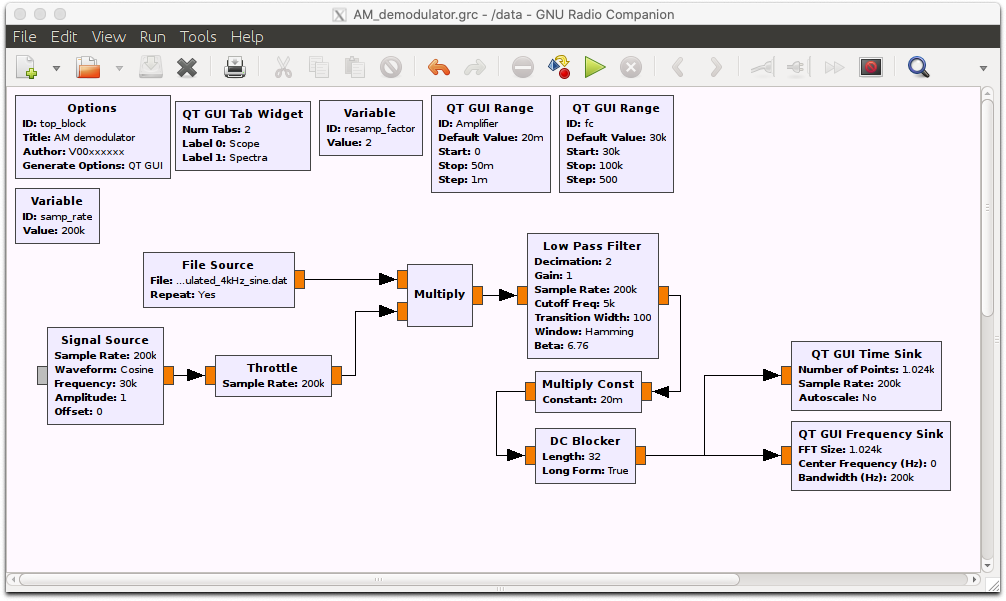
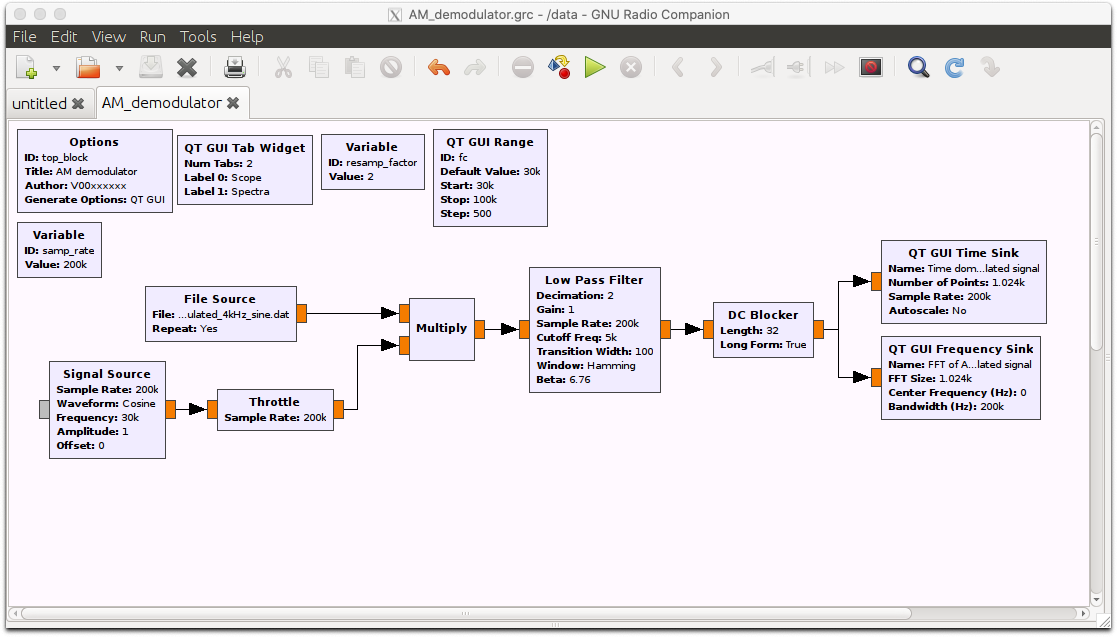
Removed an unneeded mult. const. block

diff --git a/_ece350/lab1/AM-receivers.md b/_ece350/lab1/AM-receivers.md
@@ -52,11 +52,6 @@ Remembering that the frequency of the modulated signal was 4 kHz, set the cutoff
   ![part2_low_pass.png](./figures/part2_low_pass.png)<br>
   __*Low pass filter parameters*__
 
-After the low pass filter, the signal is amplified. Use a *QT GUI Range* widget to control the amplification.
-
-  ![part2_amplifier.png](./figures/part2_amplifier.png)<br>
-  __*Amplifier parameters*__
-
 Run the flowgraph and analyze the output. Is it what you expected? You can also look at the other `.dat` files of modulated signals to demodulate them. Just remember to adjust the low pass filter parameters based on the modulated signal properties.
 
   ![part2_demodulated_scope.png](./figures/part2_demodulated_scope.png)<br>
